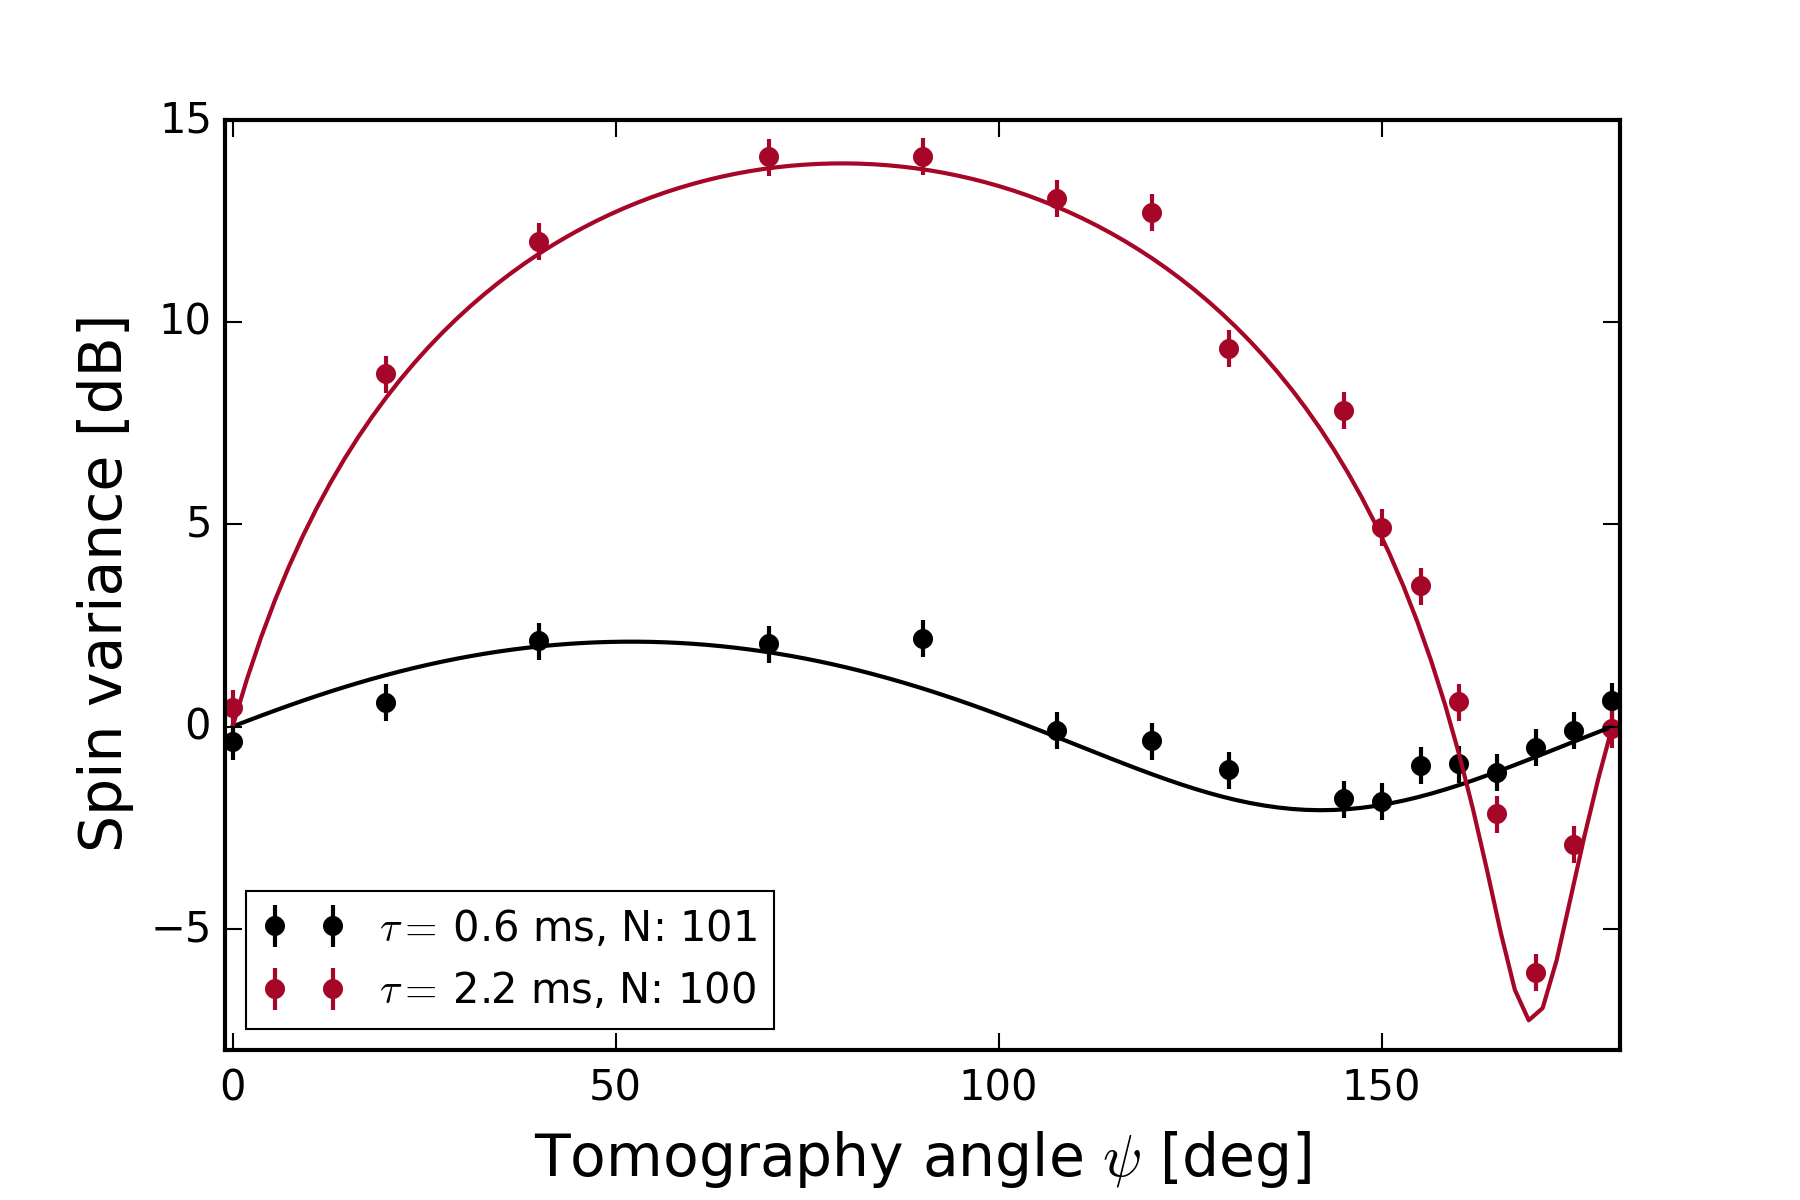
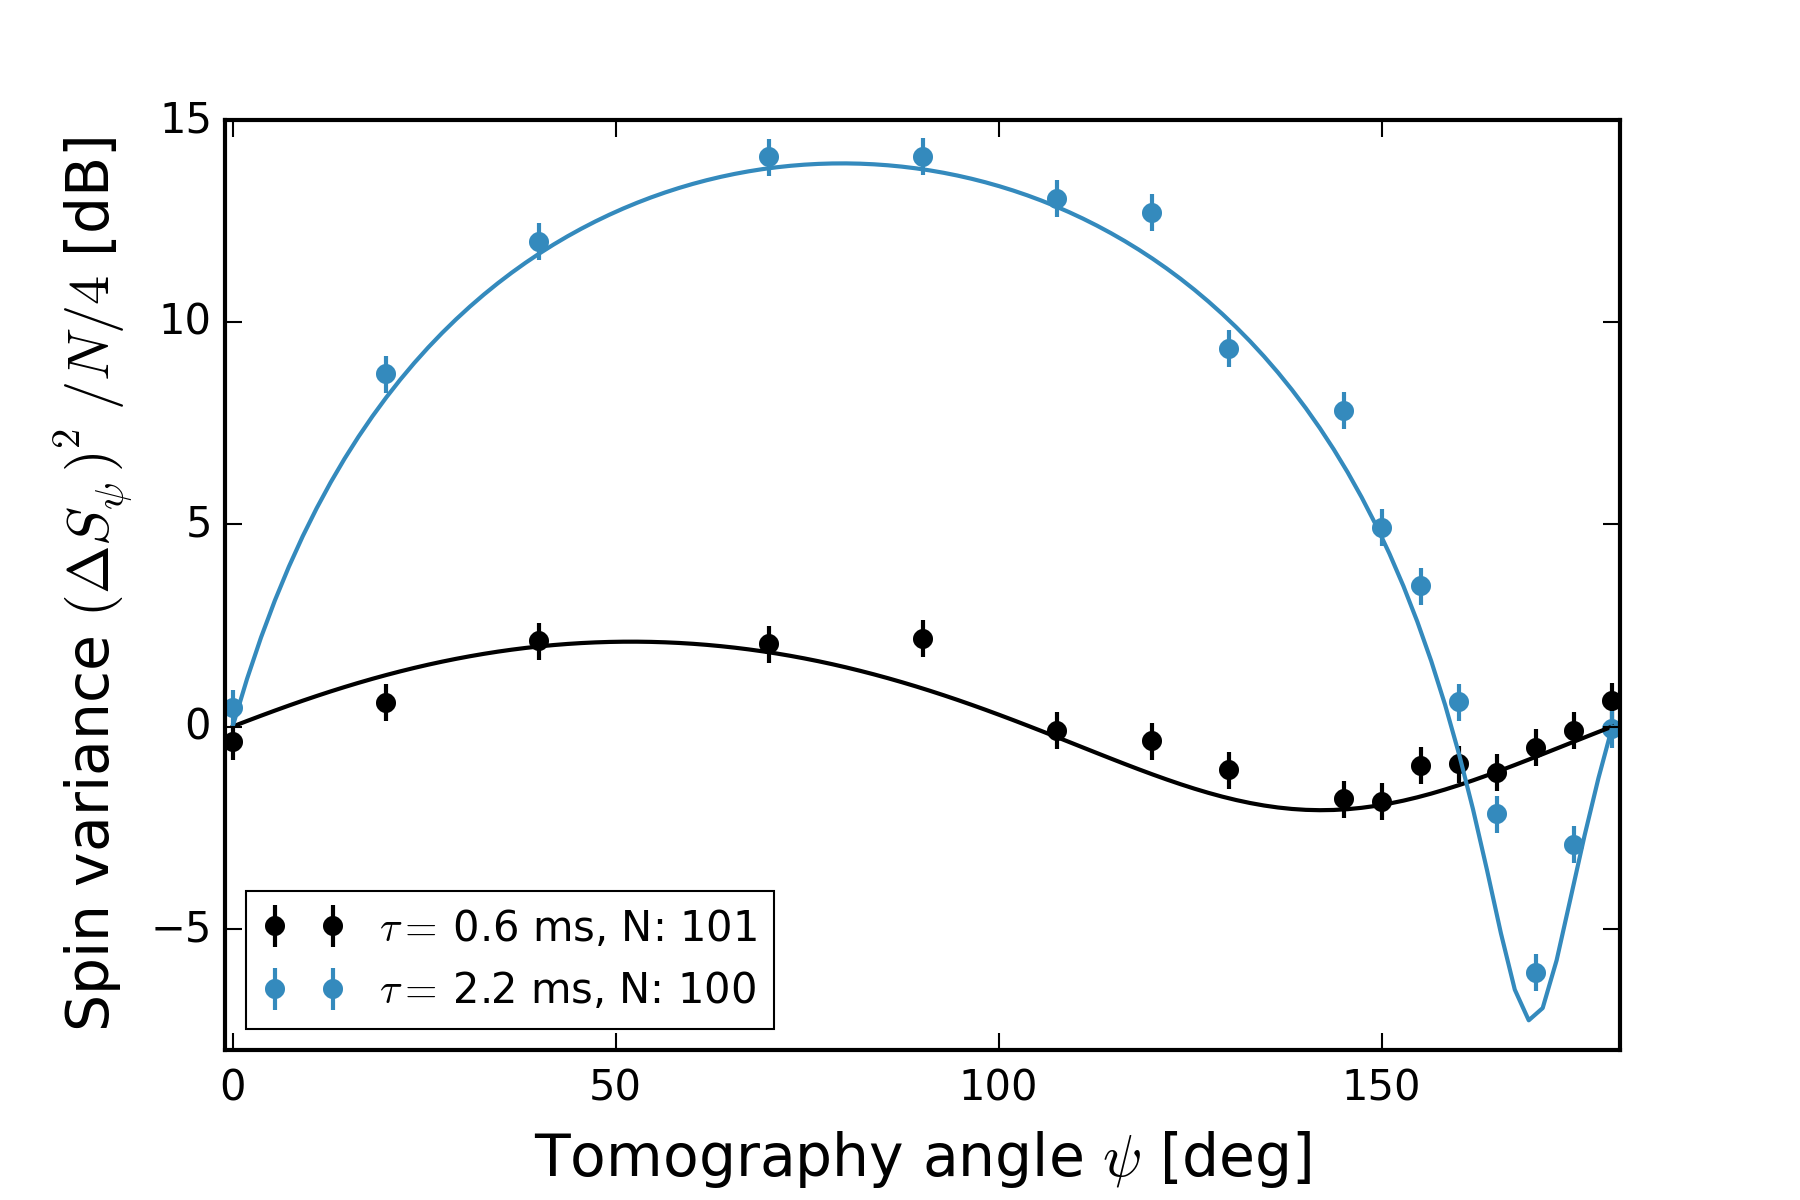
Change y axis label and colors of squeeze plots

diff --git a/paper_figs/penning_squeeze/SE_squeeze_Batch_8_6_fig.py b/paper_figs/penning_squeeze/SE_squeeze_Batch_8_6_fig.py
@@ -103,19 +103,19 @@ for i,fn in enumerate(fns):
 #%%
 #________________________________________________________________________
 # visualizing the experimental data
-
+colors = ['k', ps.blue, ps.red]
 for i,data in enumerate(sig_obs):
     l = r"$\tau=$ {:.1f} ms, N: {:.0f}".format(its[i]*1e3,Ns[i])
     spin_noise = (sig_ins[i]**2)/(sig_pns[i]**2)
     spin_noise_dB = 10*np.log10(spin_noise)
     spin_noise_err_dB = 10*np.log10(spin_noise) - 10*np.log10(spin_noise-2*spin_noise/sqrt(2*reps))
-    plt.errorbar(psis[i],spin_noise_dB,yerr=spin_noise_err_dB, fmt='o',label=l)
+    plt.errorbar(psis[i],spin_noise_dB,yerr=spin_noise_err_dB, fmt='o',label=l, color=colors[i])
 
 #plt.yscale('log')
 #plt.xscale('log')
 plt.axis([-1,181,-8,15])
 plt.xlabel(r"Tomography angle $\psi$ [deg]")
-plt.ylabel("Spin variance [dB]")
+plt.ylabel(r"Spin variance $(\Delta S_\psi)^2/N/4$ [dB]")
 plt.grid('off')
 plt.legend(loc=0,fontsize=10)
 
@@ -128,7 +128,7 @@ G_du = mult* 6.413
 
 psi = np.linspace(0.001,pi,num=100) # radians
 
-colors = ['k', ps.red, ps.blue]
+
 for i,name in enumerate(names):
     Jbar = J1ks[i]/(0.002/its[i])
     out = squ.OAT_decoh(-psi, its[i], Jbar, Ns[i], G_el, G_ud, G_du)

diff --git a/paper_figs/penning_squeeze/SE_squeeze_Batch_8_7_fig.py b/paper_figs/penning_squeeze/SE_squeeze_Batch_8_7_fig.py
@@ -115,7 +115,7 @@ for i,data in enumerate(sig_obs):
 #plt.xscale('log')
 #plt.axis([-1,181,-5,12])
 plt.xlabel(r"Tomography angle $\psi$ [deg]")
-plt.ylabel("Spin variance [dB]")
+plt.ylabel(r"Spin variance $(\Delta S_\psi)^2/N/4$ [dB]")
 plt.grid('off')
 plt.legend(loc=0,fontsize=10)
 

diff --git a/paper_figs/penning_squeeze/SE_squeeze_Batch_8_11_fig.py b/paper_figs/penning_squeeze/SE_squeeze_Batch_8_11_fig.py
@@ -114,7 +114,7 @@ for i,data in enumerate(sig_obs):
 #plt.xscale('log')
 plt.axis([-1,181,-5,12])
 plt.xlabel(r"Tomography angle $\psi$ [deg]")
-plt.ylabel("Spin variance [dB]")
+plt.ylabel(r"Spin variance $(\Delta S_\psi)^2/N/4$ [dB]")
 plt.grid('off')
 plt.legend(loc=0,fontsize=10)
 
